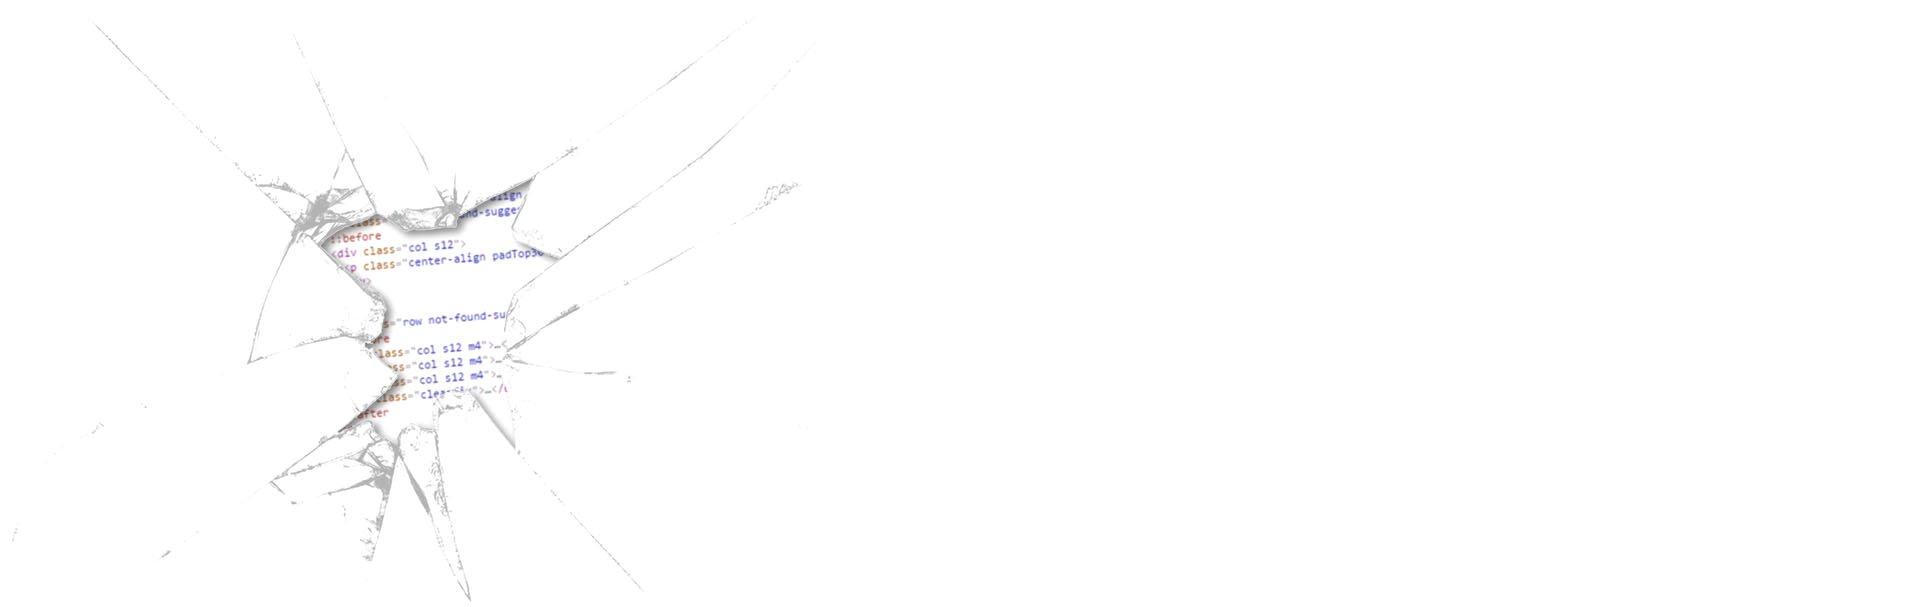
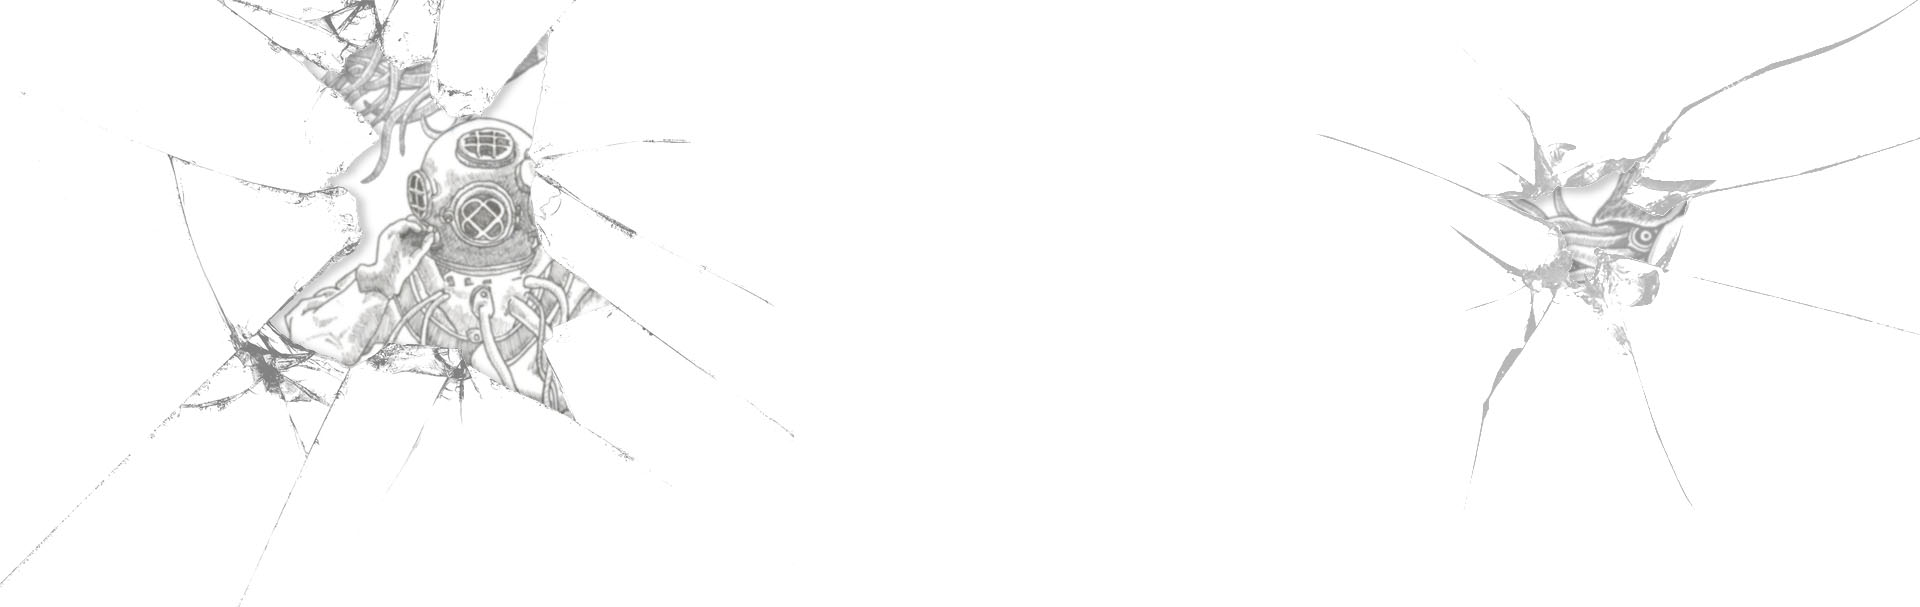
New (internal server) error page 500 added

diff --git a/app/styles/css/404/404.css b/app/styles/css/404/404.css
@@ -1,14 +1,14 @@
 /*
-404 (error) CSS: Custom Stylesheet --- Error 404: Hojas de estilo personalizadas
+404 ("page not found" error page) CSS: Custom Stylesheet --- Error 404: Hojas de estilo personalizadas
 
 Upplication (http://www.upplication.com)
-Copyright 2015
+Copyright 2016
 */
 
 .page-not-found-bg {
   width: 100%;
   border-bottom: 1px solid #e9ebf2;
-  padding-bottom: 50px;
+  padding-top: 50px;
 }
 
 .page-not-found-header {

diff --git a/app/styles/css/base/mediaqueries.css b/app/styles/css/base/mediaqueries.css
@@ -2979,3 +2979,13 @@ Copyright 2015
     height: 350px !important;
   }
 }
+
+/* HOME INTRO SLIDER BOTTOM SKEW for big screems */
+
+@media only screen and (min-width: 1750px) {
+  .dippah.skew-right {
+    -webkit-transform: skew(0deg, -2.5deg);
+    -ms-transform: skew(0deg, -2.5deg);
+    transform: skew(0deg, -2.5deg);
+  }
+}

diff --git a/app/styles/css/500/500.css b/app/styles/css/500/500.css
@@ -1,0 +1,10 @@
+/*
+500 ("internal server" error page) CSS: Custom Stylesheet --- Error 404: Hojas de estilo personalizadas
+
+Upplication (http://www.upplication.com)
+Copyright 2016
+*/
+
+.page-not-found-header h4:after {
+  text-shadow: 50px 8px 7px rgba(0, 0, 0, 0.1);
+}
